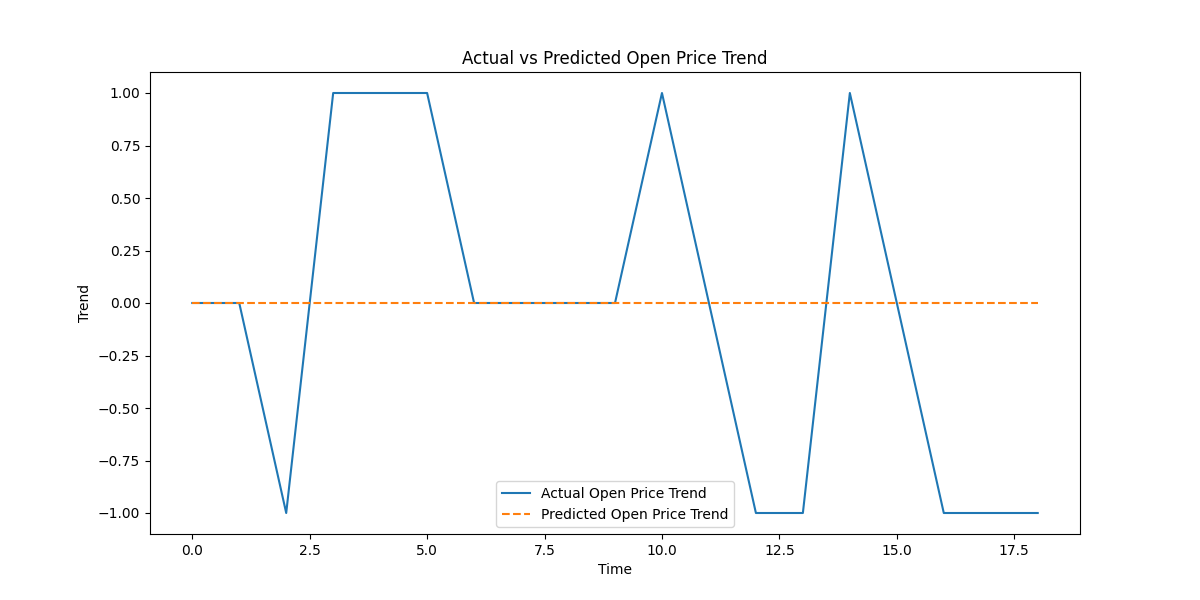
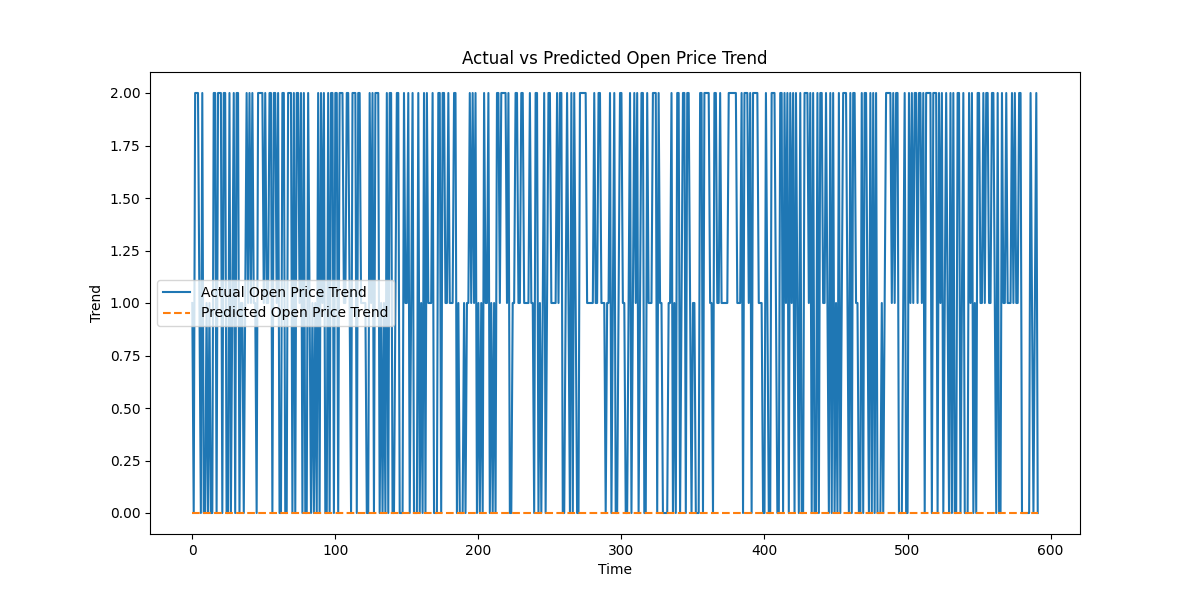
scalled-alpha-beta

diff --git a/trytry_para_gpu.py b/trytry_para_gpu.py
@@ -90,7 +90,7 @@ class HMM:
         # Update emission probabilities
         for i in range(self.n_states):
             for k in range(self.n_ob_symbols):
-                print((np.array(observation_sequence) == k))
+                # print((np.array(observation_sequence) == k))
                 B_new[i, k] = np.sum(gamma[:, i] * (np.array(observation_sequence) == k))
             B_new[i] /= gamma_sum[i]
 
@@ -120,9 +120,39 @@ class HMM:
             for state in range(self.n_states):
                 alpha[observation, state] = torch.sum(alpha[observation-1, :] * A[:, state]) * B[state, observation_sequence[observation]]
 
-        return alpha
+        # alpha_scaled = torch.zero_like(alpha)
+        # scales = torch.zeros(T, device='cuda')
 
-    def backward_algo(self, observation_sequence):
+        # alpha_scaled [0,:] = lambda_hmm * B[:, observation_sequence[0]]
+        # scales[0] = torch.sum(alpha_scaled[0,:])
+
+#################################################################
+        # calculation of alpha scalled
+#################################################################
+        # Initialize alpha_scaled and scaling factors
+        alpha_scaled = torch.zeros((T, self.n_states), device='cuda')
+        scales = torch.zeros(T, device='cuda')
+        
+        # Base case: at time t=0
+        alpha_scaled[0, :] = lambda_hmm * B[:, observation_sequence[0]]
+        scales[0] = torch.sum(alpha_scaled[0, :])
+        if scales[0] > 0:
+            alpha_scaled[0, :] /= scales[0]
+        
+        # Iterate forward in time
+        for t in range(1, T):
+            for j in range(self.n_states):
+                alpha_scaled[t, j] = torch.sum(alpha_scaled[t-1, :] * A[:, j]) * B[j, observation_sequence[t]]
+            # Scaling to avoid underflow
+            scales[t] = torch.sum(alpha_scaled[t, :])
+            if scales[t] > 0:
+                alpha_scaled[t, :] /= scales[t]
+        
+        return alpha_scaled, scales
+        # return alpha_scaled, scales
+        # return alpha
+
+    def backward_algo(self, observation_sequence, scales):
         A = torch.tensor(self.transition_prob_mat, device='cuda').clone().detach()
         B = torch.tensor(self.emission_prob_mat, device='cuda').clone().detach()
 
@@ -139,15 +169,30 @@ class HMM:
             for state in range(self.n_states):
                 beta[observation, state] = torch.sum(A[state, :] * B[:, observation_sequence[observation+1]] * beta[observation+1, :])
         # beta /= beta.sum(axis=1, keepdim=True)
-        return beta
+
+        # Initialize beta_scaled
+        beta_scaled = torch.zeros(T, self.n_states, device='cuda')
+
+        # Base case: at time T-1, beta_T-1(i) = 1 for all states, then scale
+        beta_scaled[T-1, :] = 1.0
+
+        # Iterate backward in time
+        for t in range(T - 2, -1, -1):
+            for i in range(self.n_states):
+
+                beta_scaled[t, i] = torch.sum(A[i, :] * B[:, observation_sequence[t+1]] * beta_scaled[t+1, :])
+            beta_scaled[t, :] /= scales[t]
+
+        return beta_scaled
+        # return beta
 
     def compute_alpha_beta(self, observation_sequence):
         # print("Computing alpha and beta")
 
         observation_sequence = torch.tensor(observation_sequence, device='cuda').clone().detach()
 
-        alpha = self.forward_algo(observation_sequence)
-        beta = self.backward_algo(observation_sequence)
+        alpha, scales  = self.forward_algo(observation_sequence)
+        beta = self.backward_algo(observation_sequence, scales)
 
         alpha = alpha.cpu().numpy()
         beta = beta.cpu().numpy()
@@ -179,13 +224,13 @@ def find_trands(data, threshold):
     for i in range(len(data) - 1):
         dif = data[i+1] - data[i]
         if abs(dif) < threshold:
-            trends.append(0)
+            trends.append(1)
             # trends.append('no-change')
         elif dif < 0:
-            trends.append(-1)
+            trends.append(0)
             # trends.append('decrease')
         else:
-            trends.append(1)
+            trends.append(2)
             # trends.append('increase')
     return trends
 
@@ -204,10 +249,10 @@ def ready_data(data_csv):
 
     # assert len(data_dict[header[0]]) >= 200, "Not enough data to split into 100 rows each for train and test."
 
-    # train_data = {key: values[:len(values)//2] for key, values in data_dict.items()}
-    # test_data = {key: values[len(values)//2:] for key, values in data_dict.items()}
-    train_data = {key: values[:20] for key, values in data_dict.items()}
-    test_data = {key: values[20:40] for key, values in data_dict.items()}
+    train_data = {key: values[:len(values)//2] for key, values in data_dict.items()}
+    test_data = {key: values[len(values)//2:] for key, values in data_dict.items()}
+    # train_data = {key: values[:20] for key, values in data_dict.items()}
+    # test_data = {key: values[20:40] for key, values in data_dict.items()}
     # train_data = {key: values[:100] for key, values in data_dict.items()}
     # test_data = {key: values[100:200] for key, values in data_dict.items()}
     return train_data, test_data
@@ -266,7 +311,7 @@ def main():
 
     open_price_test_trend = find_trands(test_data['Open'], 50)
 
-    last_observation_no = 20
+    last_observation_no = len(open_price_test_trend)
     last_observation = open_price_train_trend[-last_observation_no:]
     predicted_sequence = last_observation.copy()
 
